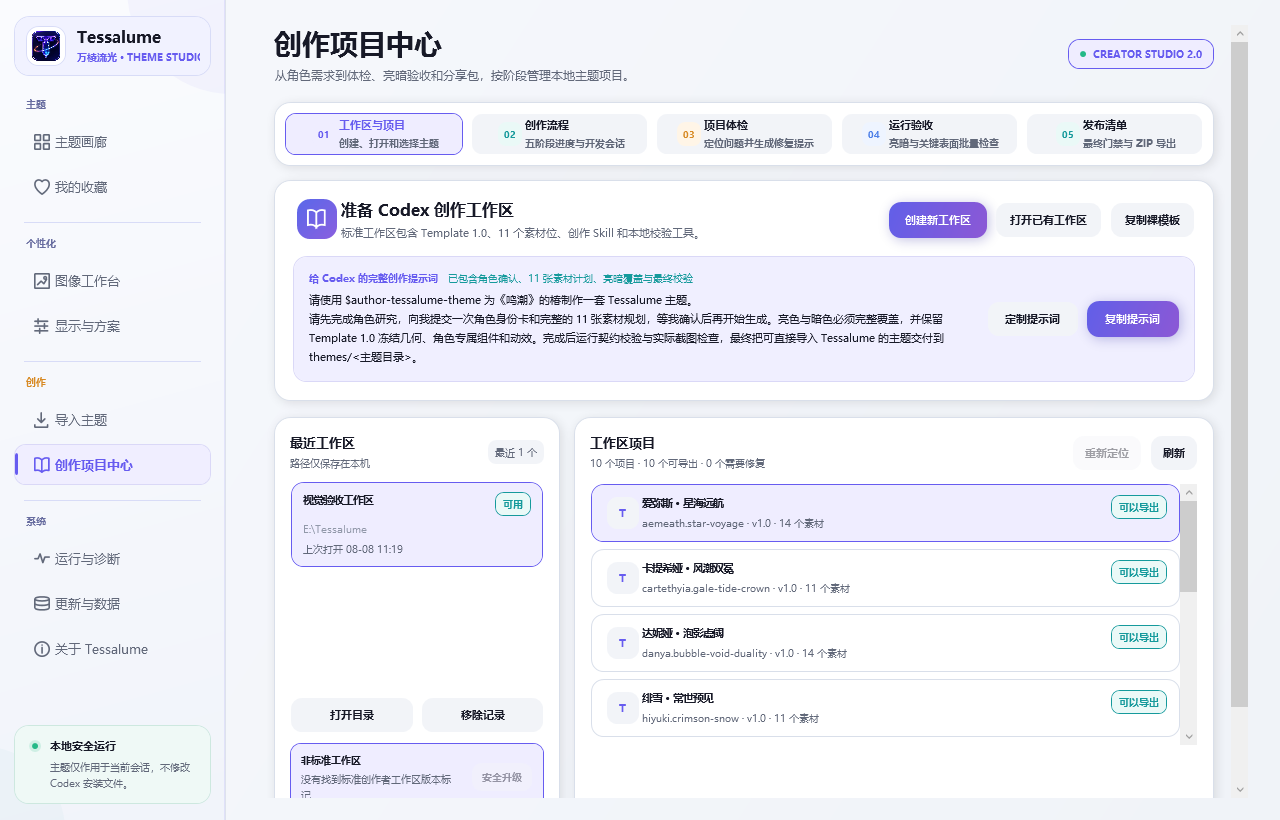
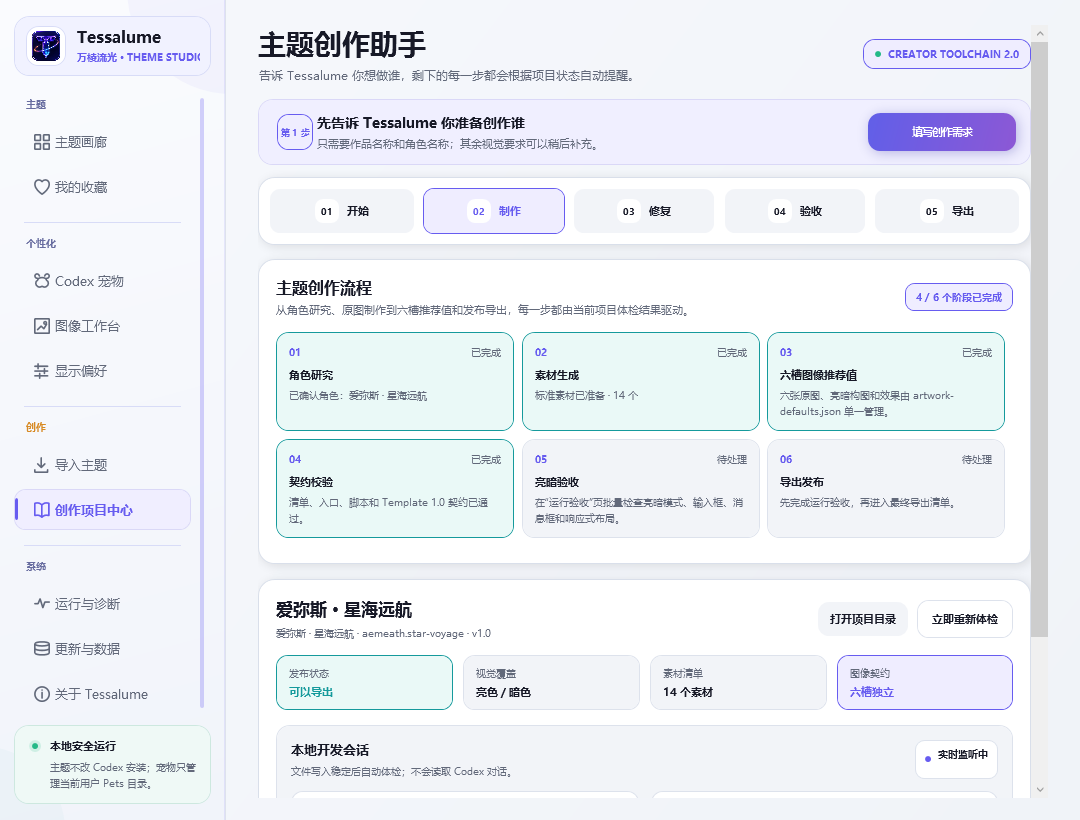
release: finalize Tessalume 2.1.0

diff --git a/src/Tessalume.App/BrandInfo.cs b/src/Tessalume.App/BrandInfo.cs
@@ -11,7 +11,7 @@ public static class BrandInfo
     public const string RepositoryOwner = "lyc1uckYoo";
     public const string RepositoryName = "tessalume";
     public static string Version { get; } =
-        typeof(BrandInfo).Assembly.GetName().Version?.ToString(3) ?? "2.1.1";
+        typeof(BrandInfo).Assembly.GetName().Version?.ToString(3) ?? "2.1.0";
     public static string VersionLabel { get; } = "v" + Version;
     public static string WindowTitle { get; } = ProductName + " · " + ChineseName;
     public static string QuickSwitchTitle { get; } = ProductName + " 浮窗";

diff --git a/CHANGELOG.md b/CHANGELOG.md
@@ -1,11 +1,5 @@
 # Tessalume 版本记录
 
-## 2.1.1
-
-- 修复 2.1.0 的连接性能回归：主题切换、显示偏好和图像工作台现在优先复用并快速验证当前活动端口，不再在每次操作时等待 9229 与 9340–9399 的完整扫描。
-- 仅在当前端口失效或首次连接时执行端口发现；继续保留 Codex++ 9229 自动识别、第三方宿主优先端口与断线重连能力。
-- 新增慢端口回归门禁，确保健康的已知端口立即返回，不会被无响应的候选端口拖慢。
-
 ## 2.1.0
 
 - 图像工作台升级到 3.0：12 套内置主题的首页横幅、左栏图片和聊天背景全部改为版本化推荐值，不再把裁切、滤镜、遮罩和静态变换写死在主题 CSS；亮暗六个槽位可独立编辑，并始终保留主题原图作为无损基线。
@@ -14,9 +8,10 @@
 - 新增 Codex 宠物中心和首只内置宠物“飞行雪绒”：可预览 11 组动态动作，在当前用户 `.codex\pets` 内完成安装、更新、修复、备份恢复和受管卸载；不会运行独立桌宠进程，也不会读取聊天、账号或日志。
 - 重整个性化页面与导航层级，移除容易混淆的跨区域复制、旧个人图像方案和体验方案工作流；保留直接、可撤销的当前槽位编辑，以及按主题保存的动效、字号和界面密度。
 - 兼容规则升级到 3.0.4 / contract 4，修复原生进度行出现时输入框外圈发黑、主题切换短暂闪默认内容，以及新版 Codex 设置页不再显示聊天背景的问题。
-- 改进 Codex 连接发现：应用主题前优先附加已有本机 Codex 页面，自动识别 Codex++ 默认端口 9229，并在“运行与诊断”提供可持久化的优先端口设置；不再因只扫描 9340–9399 而另行启动不带插件的 Codex。
+- 改进 Codex 连接发现：应用主题前优先附加已有本机 Codex 页面，自动识别 Codex++ 默认端口 9229，并在“运行与诊断”提供可持久化的优先端口设置；活动端口会被快速复用，只有首次连接或断线时才扫描回退端口，不再因无响应候选拖慢主题切换、显示偏好和图像工作台。
+- 创作工具链升级到 2.0：Skill、Template 1.0 分发模板、创作提示词、六阶段流程、项目体检和导出门禁统一采用六槽图像单一来源；CSS 再次引用可调原图或写死构图、滤镜、遮罩和图片动效时会直接阻止导出，旧工作区可安全升级且不会修改用户主题项目。
 - 2.0.2 的 Schema 5 设置会在启动时先保存原始快照，再原子迁移为 Schema 7；收藏、最近主题、亮暗图像参数、本地图片路径、显示偏好、创作草稿和工作区记录继续保留，已废弃的旧方案字段不再写回。
-- 继续拆分个性化、图像运行时和宠物管理模块，并将发布门禁扩充到 99 项完整回归；发布构建同时验证 12 套主题契约、冻结几何、运行时脚本、兼容包、便携资源和 SHA-256。
+- 继续拆分个性化、图像运行时和宠物管理模块，并将发布门禁扩充到 100 项完整回归；发布构建同时验证 12 套主题契约、冻结几何、运行时脚本、兼容包、便携资源和 SHA-256；发布说明脚本兼容 Windows PowerShell 与 PowerShell 7，GitHub Actions 同步升级到当前稳定运行时。
 
 ## 2.0.2
 

diff --git a/README.md b/README.md
@@ -4,7 +4,7 @@
 
 Tessalume 是一款开源、便携、以本机为中心的 Windows 主题与伴侣工作室。它可以统一管理 Codex 的完整角色主题、三大图像区域、阅读体验与官方 Pets 资产，也能让你直接借助 Codex 创建、体检和导出自己的主题。
 
-![Release](https://img.shields.io/badge/release-2.1.1-6C5CE7?style=flat-square)
+![Release](https://img.shields.io/badge/release-2.1.0-6C5CE7?style=flat-square)
 ![Platform](https://img.shields.io/badge/platform-Windows%20x64-2563EB?style=flat-square)
 ![Local first](https://img.shields.io/badge/data-local%20first-0F9D87?style=flat-square)
 ![License](https://img.shields.io/badge/license-MIT-F59E0B?style=flat-square)
@@ -58,11 +58,11 @@ Tessalume 不会启动独立桌宠进程，不读取 Codex 对话、账号或日
 
 ## 让 Codex 帮你制作自己的皮肤
 
-创作项目中心把主题制作拆成 **工作区与项目 → 创作流程 → 项目体检 → 运行验收 → 发布清单** 五个阶段。你可以在 Codex 中打开准备好的工作区，然后直接描述作品和角色：
+创作项目中心提供 **开始 → 制作 → 修复 → 验收 → 导出** 五个清晰页面；其中制作流程继续细分为角色研究、素材生成、六槽图像推荐值、契约校验、亮暗验收和导出发布六个阶段。你可以在 Codex 中打开准备好的工作区，然后直接描述作品和角色：
 
 > 请使用 `$author-tessalume-theme` 为《鸣潮》的椿制作一套 Tessalume 主题；先完成角色研究和 11 张素材计划，等我确认后再生成、校验并交付可导入的主题。
 
-Tessalume 会检查结构、素材、Template 1.0 契约、亮暗模式和响应式布局；错误、警告或未完成验收会阻止导出分享包，并能生成只针对当前问题的 Codex 修复提示词。
+Tessalume 会检查结构、素材、Template 1.0 契约、六槽图像推荐值、CSS 单一职责、亮暗模式和响应式布局；错误或未完成验收会阻止导出分享包，并能生成只针对当前问题的 Codex 修复提示词。
 
 ![Tessalume 创作项目中心](.github/assets/screenshots/tessalume-creator.png)
 
